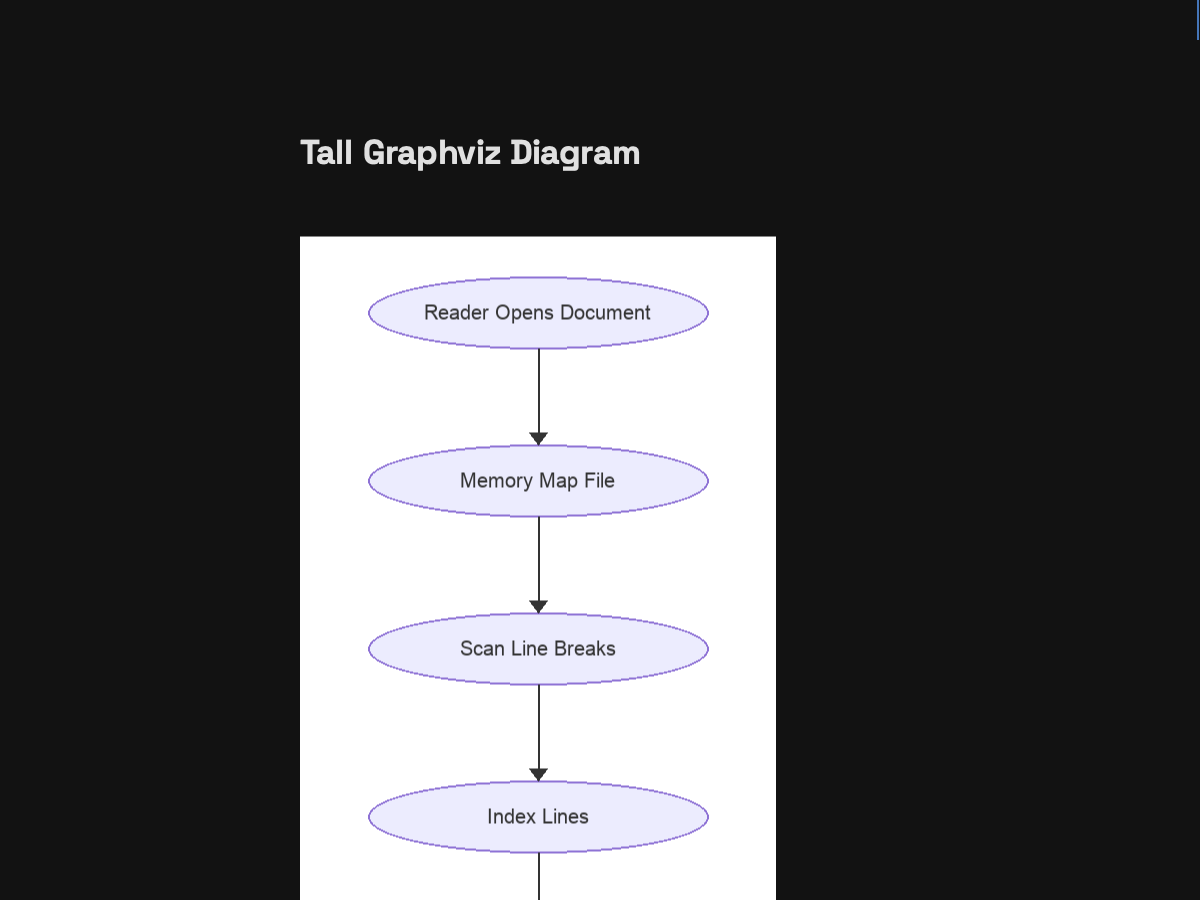
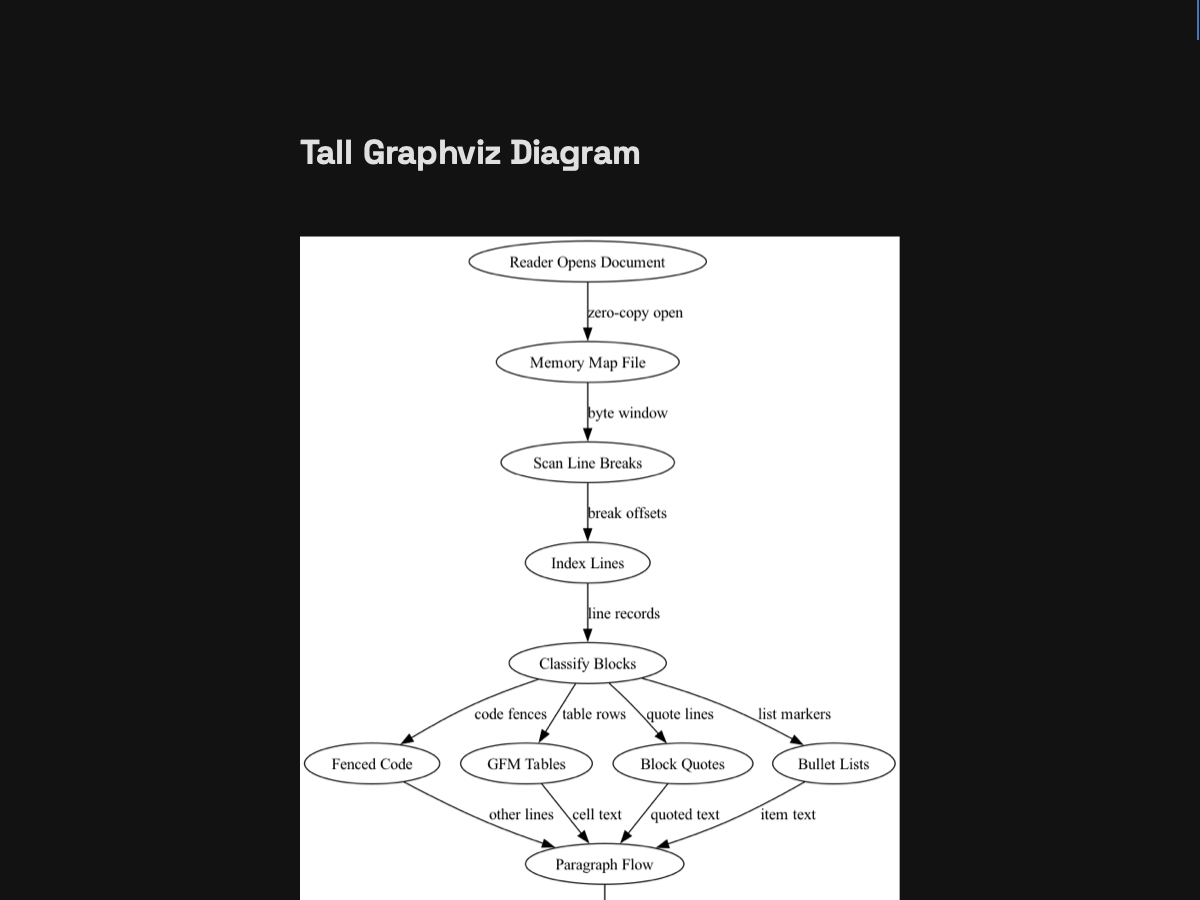
[#329] Refresh frontmatter.png on e9f62f2 base (deterministic re-render; base file stale)

Changed region(s): [[0.2467, 0.2489, 0.7708, 1.0]]

diff --git a/scripts/gen-plugin-seeds.py b/scripts/gen-plugin-seeds.py
@@ -3,14 +3,16 @@
 
 d2 seeds are genuine d2-engine renders of their test_cases/plugin_d2*.md
 fixture fence sources (d2 0.9.0; *_seed functions shell out to the real
-binary and fail loudly without it). Remaining seeds are faithful static
-mimics of real renderer output: graphviz/plantuml draw the fixture's
+binary and fail loudly without it). Graphviz seeds are genuine dot-engine
+renders of their test_cases/plugin_graphviz*.md fixture fence sources
+(dot 16.0.0; same fail-loudly contract). Remaining seeds are faithful
+static mimics of real renderer output: plantuml draws the fixture's
 diagram (labels mirror the fixture), math/mathjax draw the fixture's
 formula typeset in STIX. Tall/wide companions (*-seed-tall.png,
 *-seed-wide.png) mirror the tall/wide fixtures node-for-node the same
 way; math-seed.png draws the simplified fixture formula,
 *-seed-complex.png the complex companions. Synthetic-but-plausible
-stand-ins (no dot/plantuml/katex binaries in this env); the screenshot
+stand-ins (no plantuml/katex binaries in this env); the screenshot
 path proven (stat-exists seed -> ready -> stock image decode) is production,
 per suite practice (cf. scripts/gen-mermaid-seed.py).
 
@@ -56,7 +58,8 @@ def center_text(d, cx, cy, s, font):
 
 
 def _real_tool_render(fixture_md, info_token, out_name, tool, args):
-    # Genuine engine render of the fixture's fence source (issue #330
+    # Genuine engine render of the fixture's fence source (issue #330,
+    # round-two revision: seeds are real tool output, never Pillow mimics).
     # revision: seeds are real tool output, never Pillow mimics). Fails
     # loudly when the tool is absent so a synthetic image can never pass
     # silently.
@@ -95,20 +98,11 @@ def d2_seed():
 
 
 def graphviz_seed():
-    # Fixture (dot): rankdir=LR, reader -> diagram. Ellipse nodes are
-    # graphviz's default node shape.
-    W, H = 476, 280
-    im = Image.new("RGB", (W, H), BG)
-    d = ImageDraw.Draw(im)
-    font = load_font(ARIAL, 24)
-    e1 = (28, 96, 180, 184)
-    e2 = (296, 96, 448, 184)
-    d.ellipse(e1, fill=FILL, outline=EDGE, width=EDGE_W)
-    d.ellipse(e2, fill=FILL, outline=EDGE, width=EDGE_W)
-    center_text(d, 104, 140, "reader", font)
-    center_text(d, 372, 140, "diagram", font)
-    arrow_h(d, 180, 140, 296)
-    return im, "graphviz-seed.png"
+    # Fixture test_cases/plugin_graphviz.md: genuine dot output (16.0.0).
+    # Ellipse nodes are graphviz's default node shape.
+    return _real_tool_render("test_cases/plugin_graphviz.md", "dot",
+                             "graphviz-seed.png", "dot",
+                             ["-Tpng", "SRC", "-o", "OUT"])
 
 
 def plantuml_seed():
@@ -346,8 +340,10 @@ def d2_seed_tall():
 
 
 def graphviz_seed_tall():
-    # Same node set in dot idiom; ellipses are dot's default node shape.
-    return _draw_tall("ellipse"), "graphviz-seed-tall.png"
+    # Same node set in dot idiom; genuine dot output (16.0.0).
+    return _real_tool_render("test_cases/plugin_graphviz_tall.md", "dot",
+                             "graphviz-seed-tall.png", "dot",
+                             ["-Tpng", "SRC", "-o", "OUT"])
 
 
 # Wide pipeline fixture node sets (test_cases/plugin_{d2,graphviz}_wide.md):
@@ -413,8 +409,10 @@ def d2_seed_wide():
 
 
 def graphviz_seed_wide():
-    # Same node set in dot idiom (rankdir=LR); ellipses are dot's default.
-    return _draw_wide("ellipse"), "graphviz-seed-wide.png"
+    # Same node set in dot idiom (rankdir=LR); genuine dot output (16.0.0).
+    return _real_tool_render("test_cases/plugin_graphviz_wide.md", "dot",
+                             "graphviz-seed-wide.png", "dot",
+                             ["-Tpng", "SRC", "-o", "OUT"])
 
 
 # PlantUML tall/wide companions use the sequence-diagram idiom of the base
